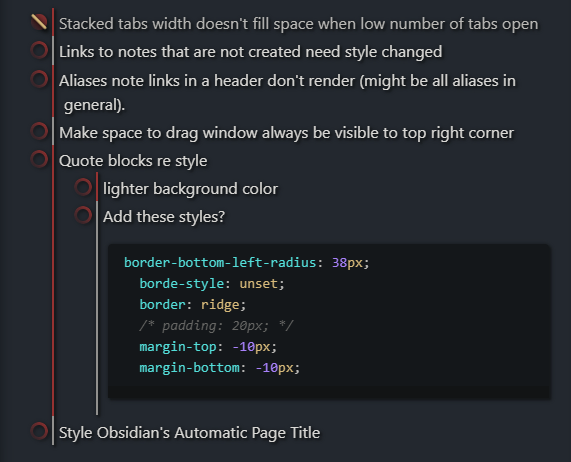
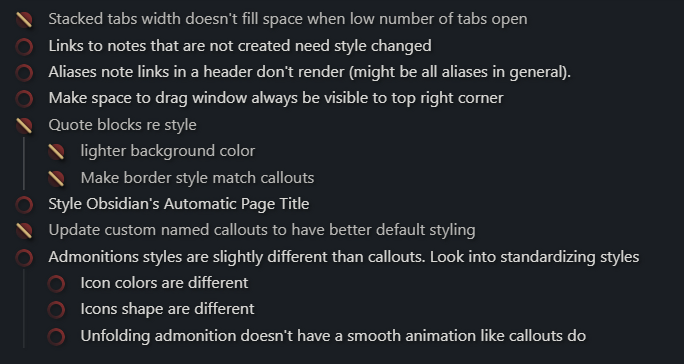
Blockquote and callout styles improved
- Blockquotes have had there styling changed to more closely resemble callouts except that they all have 2px solid red border on left and right edges.

- custom named callouts have been restyled so that they now have an accented left and right border like other callouts and the icon matches the accent color. Custom named callouts will use the faded themes gold accent for the borders and icon color.

Changed region(s): [[0.0298, 0.0302, 0.9527, 0.967]]

diff --git a/theme.css b/theme.css
@@ -1324,9 +1324,6 @@ body {
     --custom-scrollbar-width: 12px;
     --custom-scrollbar-height: 12px;    
 
-    /* Admonition */
-    --custom-admonition-border-color: var(--custom-black-950);
-
     /* Files and Folders Pane */
     --custom-folder-icon-open: var(--Red-Accent-1);
     --custom-folder-icon-closed: var(--custom-red-600);
@@ -1350,12 +1347,17 @@ body {
     --tab-text-color-focused-active: var(--text-normal); /*Not sure what this is used for*/
     --tab-text-color-focused-active-current: var(--text-normal);
 
+    /* Admonition/Callouts */
+    --custom-admonition-border-color: var(--custom-black-950);
+    --custom-callout-background-color: var(--custom-black-700);
+
     /* Blockquotes */
     --blockquote-border-thickness: 2px;
-    --blockquote-border-color: var(--interactive-accent);
+    --blockquote-border-color: var(--black);
     --blockquote-font-style: normal;
     --blockquote-color: inherit;
-    --blockquote-background-color: var(--custom-background-tertiary);
+    --blockquote-background-color: var(--custom-black-700);
+    --custom-blockquote-border-accent-color: var(--custom-red-600);
 
     /* Search & Replace*/
     --custom-match-found-indicator-color: var(--white);
@@ -1401,7 +1403,7 @@ body {
 /* NOTE Basic Callout Styling */
 .callout{
     border: 1px solid black;
-    background-color: var(--custom-black-700);
+    background-color: var(--custom-callout-background-color);
 }
 
 /* NOTE Add Drop Shadow To Nested Callouts */
@@ -1425,57 +1427,119 @@ body {
     filter: drop-shadow(2px 2px 2px black);
 }
 
+/* NOTE This is the style for all callouts that are not explicitly named */
+.callout[data-callout]{
+    --callout-color: var(--interactive-accent);
+    border-inline: 1px solid var(--interactive-accent);
+}
+
 /* NOTE Callout Special Stylings */
 .callout[data-callout="abstract"],
 .callout[data-callout="summary"],
 .callout[data-callout="tldr"] {
-    border-inline: 1px solid rgb(0, 176, 255);
+    --callout-color: #00b0ff;
+    border-inline: 1px solid #00b0ff;
 }
 .callout[data-callout="info"],
 .callout[data-callout="todo"] {
-    border-inline: 1px solid rgb(0, 184, 212);
+    --callout-color: #00b8d4;
+    border-inline: 1px solid #00b8d4;
 }
 .callout[data-callout="tip"],
 .callout[data-callout="hint"],
 .callout[data-callout="important"] {
-    border-inline: 1px solid rgb(0, 191, 165);
+    --callout-color: #00bfa5;
+    border-inline: 1px solid #00bfa5;
 }
 .callout[data-callout="success"],
 .callout[data-callout="check"],
 .callout[data-callout="done"] {
-    border-inline: 1px solid rgb(0, 200, 83);
+    --callout-color: #00c853;
+    border-inline: 1px solid #00c853;
 }
 .callout[data-callout="question"],
 .callout[data-callout="help"],
 .callout[data-callout="faq"] {
-    border-inline: 1px solid rgb(100, 221, 23);
+    --callout-color: #64dd17;
+    border-inline: 1px solid #64dd17;
 }
 .callout[data-callout="warning"],
 .callout[data-callout="caution"],
 .callout[data-callout="attention"] {
-    border-inline: 1px solid rgb(255, 145, 0);
+    --callout-color: #ff9100;
+    border-inline: 1px solid #ff9100;
 
 }
 .callout[data-callout="failure"],
 .callout[data-callout="fail"],
 .callout[data-callout="missing"] {
-    border-inline: 1px solid rgb(255, 82, 82);
+    --callout-color: #ff5252;
+    border-inline: 1px solid #ff5252;
 }
 .callout[data-callout="danger"],
 .callout[data-callout="error"] {
-    border-inline: 1px solid rgb(255, 23, 68);
+    --callout-color: #ff1744;
+    border-inline: 1px solid #ff1744;
 }
 .callout[data-callout="bug"] {
-  border-inline: 1px solid #f50057;
+    --callout-color: #f50057;
+    border-inline: 1px solid #f50057;
 }
 .callout[data-callout="example"] {
-  border-inline: 1px solid rgb(124, 77, 255);
+    --callout-color: #7c4dff;
+    border-inline: 1px solid #7c4dff;
 }
 .callout[data-callout="quote"],
 .callout[data-callout="cite"] {
-  border-inline: 1px solid rgb(158, 158, 158);
+    --callout-color: #9e9e9e;
+    border-inline: 1px solid #9e9e9e;
+}
+
+/* Note Callouts Will Use The Set Callout Color */
+.callout-icon .svg-icon{
+    color: var(--callout-color);
 }
 /* SECTION ------------------------------- Admonition/Callout END -------------------------------*/
+
+/* SECTION ------------------------------- Blockquote START------------------------------- */
+/* DONE */
+/* NOTE BlockQuote Style */
+.markdown-preview-view blockquote {
+    padding-right: 20px; /*Don't overlap with "*/
+    border: 1px solid black;
+    border-inline: var(--blockquote-border-thickness) solid var(--custom-blockquote-border-accent-color);
+    border-radius: var(--callout-radius);
+    padding: var(--callout-padding);
+    border-bottom: 0px;
+    border-top: 0px;
+}
+
+/* NOTE Nested BlockQuote Style */
+.markdown-preview-view blockquote blockquote {
+    /* border-bottom: 0px;
+    filter: drop-shadow(4px -2px 5px black); */
+    filter: drop-shadow(0px 0px 3px black);
+}
+
+/* NOTE BlockQuote Edit Mode Style Left Side Accent */
+.markdown-source-view.mod-cm6.is-live-preview .HyperMD-quote:before, .markdown-source-view.mod-cm6 .cm-blockquote-border:before{
+    border-left: var(--blockquote-border-thickness) solid var(--custom-blockquote-border-accent-color);
+    /* border-right: var(--blockquote-border-thickness) solid var(--custom-blockquote-border-accent-color); */
+}
+
+/* NOTE BlockQuote Edit Mode Style Right Side Accent */
+.markdown-source-view.mod-cm6.is-live-preview .HyperMD-quote:after, .markdown-source-view.mod-cm6 .cm-blockquote-border:after{
+    content: "\200b";
+    display: block;
+    width: 1px;
+    border-right: var(--blockquote-border-thickness) solid var(--custom-blockquote-border-accent-color);
+    color: transparent;
+    position: absolute;
+    top: 0;
+    bottom: 0;
+    right: 0;
+}
+/* SECTION ------------------------------- Blockquote END------------------------------- */
 
 /* SECTION ------------------------------- Table START ------------------------------- */
 /* DONE */
@@ -1553,26 +1617,6 @@ tbody tr td{
     color: var(--interactive-accent);
 }
 /* SECTION ------------------------------- Code Lines and Blocks END ------------------------------- */
-
-/* SECTION ------------------------------- Blockquote START------------------------------- */
-/* DONE */
-/* NOTE BlockQuote Style */
-.markdown-preview-view blockquote {
-    border: 1px ridge var(--blockquote-border-color);
-    border-left-width: 8px;
-    border-right-width: 0px;
-    border-top-width: 0px;
-    /* border-image:linear-gradient(-155deg, #ffffff00 50%,var(--custom-red-700) 100%) 1; */
-    padding-right: 20px; /*Don't overlap with "*/
-}
-
-/* NOTE Nested BlockQuote Style */
-.markdown-preview-view blockquote blockquote {
-    border-bottom: 0px;
-    filter: drop-shadow(4px -2px 5px black);
-}
-/* SECTION ------------------------------- Blockquote END------------------------------- */
-
 /* SECTION ------------------------------- Modals START -------------------------------*/
 /* DONE */
 /* NOTE Blur Effect When Modal Is Shown */
